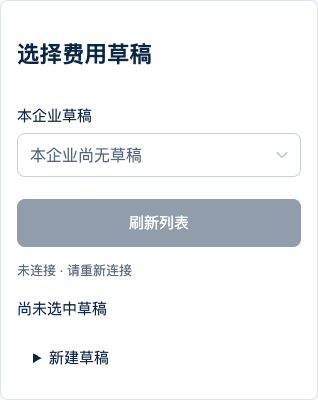
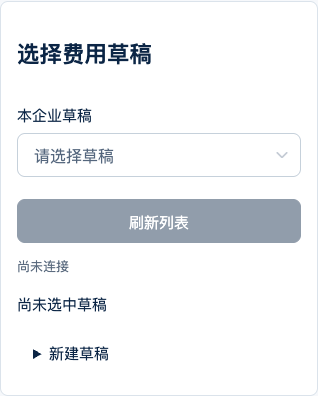
RF-PM-030 make picker evidence stateful

diff --git a/prototype/fees.css b/prototype/fees.css
@@ -1,5 +1,3 @@
 *{box-sizing:border-box}body{margin:0;background:#f6f8fb;color:#0b2545;font:15px/1.6 system-ui,sans-serif}header{background:#0b2545;padding:20px 32px;display:flex;justify-content:space-between;gap:20px;align-items:center}header img{width:168px}header a{color:white}main{max-width:1280px;margin:auto;padding:24px}.badge{display:inline-block;background:#e6f5f0;color:#086c57;padding:6px 12px;border-radius:8px}.card{background:white;border:1px solid #dbe3eb;border-radius:8px;margin:24px 0;padding:24px}.toolbar,nav{display:flex;align-items:end;gap:12px;flex-wrap:wrap}.toolbar label{flex:1}.fields{display:grid;grid-template-columns:repeat(2,minmax(0,1fr));gap:16px}.layout{display:grid;grid-template-columns:minmax(240px,1fr) minmax(0,2fr);gap:32px}label{display:block;margin:12px 0}input,select,textarea{width:100%;min-width:0;padding:12px;border:1px solid #aebdcc;border-radius:8px;font:16px system-ui;color:#0b2545;background:#fff;margin-top:6px}textarea{min-height:100px}.check{display:flex;align-items:center;gap:10px}.check input{width:22px;height:22px;margin:0}button,summary{min-height:48px;padding:12px 16px;font:15px system-ui;border-radius:8px;cursor:pointer}button{border:1px solid #0b2545;background:#0b2545;color:white}button:disabled{opacity:.45;cursor:default}button[aria-pressed=true],button[aria-current=true]{background:#087c66;color:white}nav button{background:white;color:#0b2545}fieldset{border:1px solid #dbe3eb;border-radius:8px;min-width:0;padding:20px}.hint,footer{color:#5b6b7f;font-size:13px}#fees{padding:0;list-style:none}#fees button{width:100%;text-align:left;background:white;color:#0b2545;border-color:#e0e7ed;margin:4px 0}#fees button[aria-current=true]{background:#e6f5f0;border-left:4px solid #087c66}small{display:block}.savebar{display:flex;flex-wrap:wrap;gap:12px;background:#edf6f3;padding:16px;margin-top:20px;border-top:2px solid #087c66;position:sticky;bottom:0}.savebar strong{flex:1}#status{padding:16px;background:#edf3f9;border-radius:8px}#errors{border:2px solid #b53630;background:#fff4f2;padding:20px;margin:16px 0}a{color:#075d9a}[aria-invalid=true]{border:2px solid #b53630}pre{white-space:pre-wrap;overflow-wrap:anywhere;background:#f6f8fb;padding:12px;font-size:13px}table{border-collapse:collapse;width:100%;font-variant-numeric:tabular-nums}td,th{padding:10px;text-align:left;border-bottom:1px solid #dbe3eb;overflow-wrap:anywhere}#compare-values{display:grid;grid-template-columns:repeat(3,minmax(0,1fr));gap:12px}dialog{max-width:calc(100% - 32px);border:1px solid #dbe3eb;border-radius:8px}dialog::backdrop{background:#0b254577}:focus-visible{outline:3px solid #e9a735;outline-offset:3px}[hidden]{display:none!important}@media(max-width:700px){header{padding:20px;display:block}header a{display:block;margin-top:12px}main{padding:16px}.card{padding:16px}.layout,.fields,#compare-values{grid-template-columns:1fr}.savebar strong{flex-basis:100%}.savebar button{flex:1}nav button{flex:1}h1{font-size:26px}}
- .policy-actions{display:flex;gap:12px;flex-wrap:wrap;margin-top:16px}.policy-levels{display:flex;gap:12px;flex-wrap:wrap}.policy-levels .check{margin:0}.policy-levels input{width:22px}.policy-actions button{background:#087c66}.tariff-picker-toolbar{display:grid;grid-template-columns:minmax(0,1fr) auto auto;align-items:end}.tariff-picker-toolbar label{min-width:0}.tariff-picker-toolbar button{height:48px;white-space:nowrap}@media(max-width:700px){.tariff-picker-toolbar{grid-template-columns:1fr 1fr;gap:10px}.tariff-picker-toolbar label{grid-column:1/-1}.tariff-picker-toolbar button{width:100%}}
-/* RF-PM-030 picker alignment */
-.tariff-picker-toolbar button{align-self:end;height:auto;min-height:48px}
-@media(max-width:700px){.tariff-picker-toolbar button{align-self:stretch}.tariff-picker-toolbar #refresh{grid-column:1/-1}.tariff-picker-toolbar #more:not([hidden])~#refresh{grid-column:auto}}
+.policy-actions{display:flex;gap:12px;flex-wrap:wrap;margin-top:16px}.policy-levels{display:flex;gap:12px;flex-wrap:wrap}.policy-levels .check{margin:0}.policy-levels input{width:22px}.policy-actions button{background:#087c66}.tariff-picker-toolbar{--picker-control-height:44px;display:grid;grid-template-columns:minmax(0,1fr) auto auto;align-items:end}.tariff-picker-toolbar label{min-width:0}.tariff-picker-toolbar select,.tariff-picker-toolbar button{height:var(--picker-control-height);min-height:var(--picker-control-height);white-space:nowrap}.tariff-picker-toolbar button{align-self:end}@media(max-width:700px){.tariff-picker-toolbar{grid-template-columns:1fr 1fr;gap:10px}.tariff-picker-toolbar label{grid-column:1/-1}.tariff-picker-toolbar button{width:100%;align-self:stretch}}
+@media(max-width:700px){.tariff-picker-toolbar #refresh{grid-column:1/-1}.tariff-picker-toolbar #more:not([hidden])~#refresh{grid-column:auto}}
